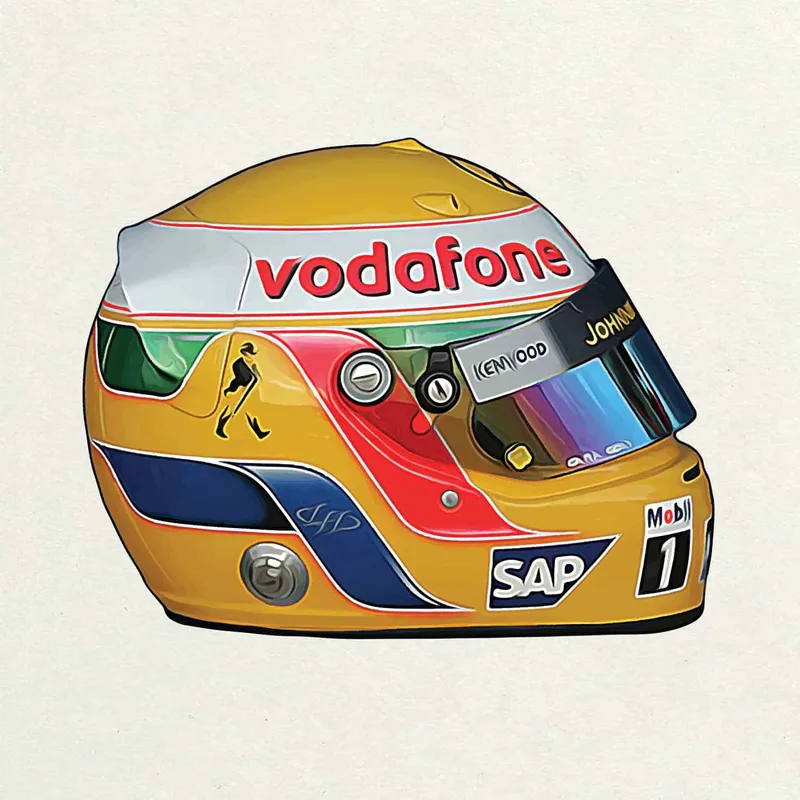
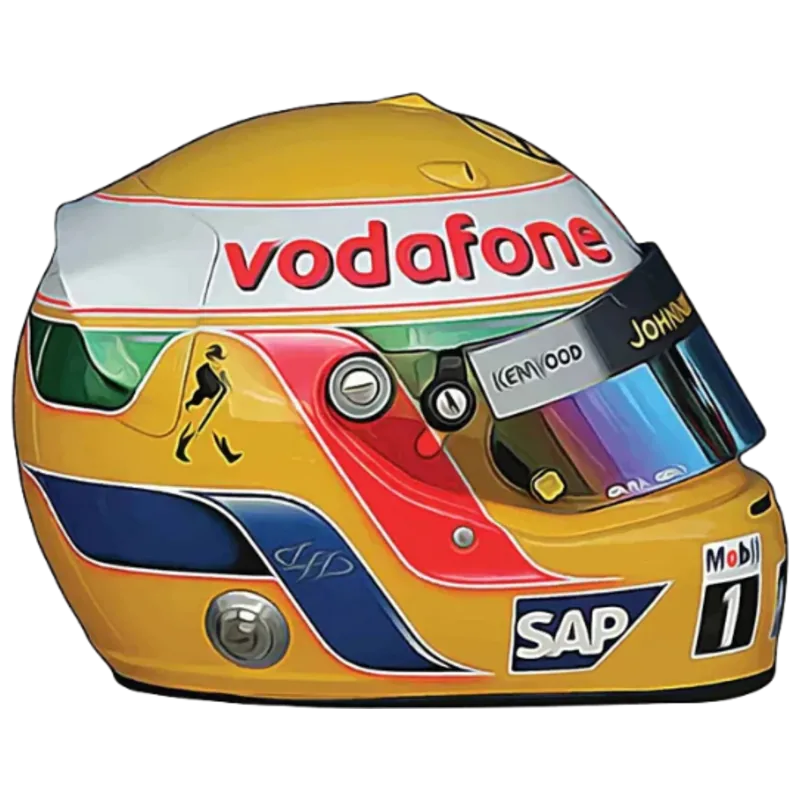
Swap in the transparent helmets, and turn the headings yellow
All 26 helmets replaced with the supplied cut-outs, mapped by display position
rather than by filename: our ids skip 22, so source 22 is helmet-23 and source
26 is helmet-27. Each is trimmed to the helmet and centred in an 800 square, so
every card presents the subject in the same place whatever the source framing.

The source PNGs moved out of public/ into asset-sources/. Left where they were,
Vite would have copied 14MB of 1920x1080 originals into the build.

On Track and Off Track headings and the gallery captions take Giallo at the
light end of their existing crossfade, so they stay dark ink while the ground
is still the light screen. The headings also pick up the site's reveal, which
meant shrinking each line to its own word: the sweep bar spans its element, and
a stretched line would have swept the whole column past the end of "On".

diff --git a/app/src/styles/home.css b/app/src/styles/home.css
@@ -2069,6 +2069,15 @@
      wide as its picture, so the reveal bar would sweep a stretch of empty space
      past the end of a short caption. */
   inline-size: fit-content;
+  /* Giallo rather than the cream the rest of the item inherits, on the same
+     crossfade — dark while the screen is still light, yellow once it is black.
+     Set here and not on .gallery__item so only the captions take the colour and
+     the callout copy beside them stays cream. */
+  color: color-mix(
+    in oklab,
+    var(--dark),
+    var(--giallo-modena) calc(var(--gallery-ink, 0) * 100%)
+  );
 }
 
 .gallery__frame {
@@ -2399,16 +2408,29 @@
 .otot__head {
   display: flex;
   flex-direction: column;
+  /* Centred rather than stretched, so each line is only as wide as its own word.
+     The reveal bar behind .reveal-text spans its element, and a stretched line
+     would sweep the full column width past the end of a short word like "On". */
+  align-items: center;
   margin: 0 0 1.5rem;
   text-transform: uppercase;
   line-height: 0.9;
-  color: color-mix(in oklab, var(--dark), var(--cream) calc(var(--otot-ink, 0) * 100%));
+  /* Giallo at the dark end of the crossfade, not cream. The mechanism is
+     unchanged — dark ink while the ground is still the light screen, full
+     colour once the gallery has taken it back to black. */
+  color: color-mix(
+    in oklab,
+    var(--dark),
+    var(--giallo-modena) calc(var(--otot-ink, 0) * 100%)
+  );
 }
 
 .otot__head-line {
   font-family: var(--font-display);
   font-size: clamp(2.5rem, 4.6vw, 5rem);
   font-weight: 700;
+  /* Shrink to the word — see the note on align-items above. */
+  inline-size: fit-content;
 }
 
 /* The lighter serif on the first word, the way the reference splits its own

diff --git a/app/index.html b/app/index.html
@@ -600,8 +600,8 @@
           <div class="otot__layout">
             <div class="otot__col is-on" data-otot-col>
               <h3 class="otot__head">
-                <span class="otot__head-line is-thin">On</span>
-                <span class="otot__head-line">Track</span>
+                <span class="otot__head-line is-thin reveal-text">On</span>
+                <span class="otot__head-line reveal-text">Track</span>
               </h3>
               <p class="otot__blurb reveal-text">
                 Recent results, career statistics and photography from trackside.
@@ -617,8 +617,8 @@
 
             <div class="otot__col is-off" data-otot-col>
               <h3 class="otot__head">
-                <span class="otot__head-line is-thin">Off</span>
-                <span class="otot__head-line">Track</span>
+                <span class="otot__head-line is-thin reveal-text">Off</span>
+                <span class="otot__head-line reveal-text">Track</span>
               </h3>
               <p class="otot__blurb reveal-text">
                 Campaigns, collaborations and the work away from the cockpit.
